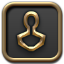
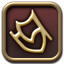
Add Beastmaster job (#26)
* Add Beastmaster job

- Register BST as a melee job with official framed PNG and white-fill SVG
- Query BST actions by ClassJobCategory 203 and IsPlayerAction

* Stabilize buff color retry test during dynamic imports

---------

diff --git a/src/app/api/xivapi/xivapi.ts b/src/app/api/xivapi/xivapi.ts
@@ -162,12 +162,25 @@ export const buildStatusSearchQuery = (nameQuery: string, language: Locale): str
 // every +ClassJobCategory.{job}=true query even though they are not job skills.
 const ALL_CLASSES_JOB_CATEGORY_ID = 1
 
+// BST has no ClassJobCategory.BST column; this is the BST-only category row.
+const BEASTMASTER_JOB_CATEGORY_ID = 203
+
 // Query for PvE actions usable by a job, including hotbar replacements
 // (Confiteor combo, ninjutsu, enchanted melee, etc.).
 // ClassJobCategory includes role actions.
 // ClassJobLevel>=1 drops Lv0 NPC/event junk.
 // -ClassJobCategory=1 drops all classes shared content (see ALL_CLASSES_JOB_CATEGORY_ID).
-export const buildJobActionListQuery = (jobAbbreviation: string): string =>
-    `+ClassJobCategory.${jobAbbreviation}=true +IsPvP=false +ClassJobLevel>=1 -ClassJobCategory=${ALL_CLASSES_JOB_CATEGORY_ID}`
+//
+// BST replacements have an empty ClassJob, so Abbreviation="BST" misses them.
+// Player-facing BST actions, including unplaceable replacements, are
+// IsPlayerAction=true; internal copies in the same category are false.
+// Other jobs must not add +IsPlayerAction=true: their hotbar replacements
+// (ninjutsu, Confiteor combo, ...) are false.
+export const buildJobActionListQuery = (jobAbbreviation: string): string => {
+    const jobClause = jobAbbreviation === 'BST'
+        ? `+ClassJobCategory=${BEASTMASTER_JOB_CATEGORY_ID} +IsPlayerAction=true`
+        : `+ClassJobCategory.${jobAbbreviation}=true`
+    return `${jobClause} +IsPvP=false +ClassJobLevel>=1 -ClassJobCategory=${ALL_CLASSES_JOB_CATEGORY_ID}`
+}
 
 export { JOB_ACTION_LIST_FIELDS, PLACEHOLDER_ICON_ID }

diff --git a/src/lib/buffColors.test.ts b/src/lib/buffColors.test.ts
@@ -25,9 +25,17 @@ describe('icon-derived buff colours', () => {
         expect(getColor.mock.calls.length - before).toBe(1)
     })
     it('falls back on failure and permits a later retry', async () => {
+        const loadsBefore = loadRenderImages.mock.calls.length
+        const extractionsBefore = getColor.mock.calls.length
         loadRenderImages.mockRejectedValueOnce(new Error('Unavailable'))
         expect(await automaticBuffColor('/retry.png')).toBe(FALLBACK_BUFF_COLOR)
-        expect(await automaticBuffColor('/retry.png')).not.toBe(FALLBACK_BUFF_COLOR)
+        // Promise.all rejects before the parallel ColorThief import settles.
+        // Let Vitest finish resolving that mock before starting another import.
+        await vi.dynamicImportSettled()
+        expect(getColor.mock.calls.length).toBe(extractionsBefore)
+        expect(await automaticBuffColor('/retry.png')).toBe(readableBuffColor('#280808'))
+        expect(loadRenderImages.mock.calls.length - loadsBefore).toBe(2)
+        expect(getColor.mock.calls.length - extractionsBefore).toBe(1)
         expect(await automaticBuffColor('')).toBe(FALLBACK_BUFF_COLOR)
     })
     it('resolves only automatic enabled statuses without changing source actions', async () => {

diff --git a/src/data/jobs.ts b/src/data/jobs.ts
@@ -116,6 +116,13 @@ export const jobs: Record<string, Job> = {
         icon: "/job-icons/vpr.svg",
         borderedIcon: "/job-icons/bordered/vpr_bordered_temp.png",
     },
+    BST: {
+        id: 43,
+        name: "Beastmaster",
+        nameJa: "魔獣使い",
+        icon: "/job-icons/bst.svg",
+        borderedIcon: "/job-icons/bordered/062143_hr1.png",
+    },
     // Phys Ranged
     BRD: {
         id: 23,
@@ -181,6 +188,6 @@ export const jobs: Record<string, Job> = {
 
 export const tanks = ['DRK', 'GNB', 'PLD', 'WAR'] as const;
 export const healers = ['AST', 'SCH', 'SGE', 'WHM'] as const;
-export const melee = ['DRG', 'MNK', 'NIN', 'RPR', 'SAM', 'VPR'] as const;
+export const melee = ['DRG', 'MNK', 'NIN', 'RPR', 'SAM', 'VPR', 'BST'] as const;
 export const physRanged = ['BRD', 'DNC', 'MCH'] as const;
 export const casters = ['BLM', 'RDM', 'SMN', 'PCT', 'BLU'] as const;
